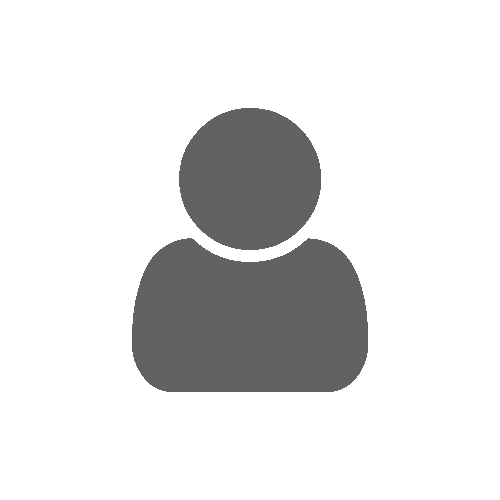
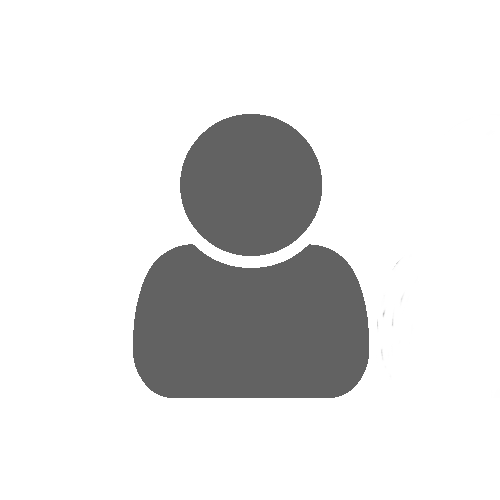
Add user container toggle

diff --git a/docs/main.js b/docs/main.js
@@ -1,3 +1,27 @@
+const userContainer = document.querySelector('.user-container');
+const userComputer = document.querySelector('.user-computer');
+const spanComputer = document.querySelector('.span-computer');
+const normalImage = document.querySelector('.normal-image');
+const hoverImage = document.querySelector('.hover-image');
+
+let twoPlayerMode = false;
+
+userContainer.addEventListener('click', () => {
+  if (twoPlayerMode === false) {
+    normalImage.src = './res/two-player.png';
+    hoverImage.src = './res/two-player-hover.png';
+    userContainer.childNodes[1].innerHTML = 'Player 1 &nbsp(<span class="span-player">X</span>)'
+    userContainer.childNodes[3].innerHTML = 'Player 2 &nbsp(<span class="span-computer">O</span>)'
+    twoPlayerMode = true;
+  } else if (twoPlayerMode === true) {
+    normalImage.src = './res/single-player.png';
+    hoverImage.src = './res/single-player-hover.png';
+    userContainer.childNodes[1].innerHTML = 'Player &nbsp(<span class="span-player">X</span>)'
+    userContainer.childNodes[3].innerHTML = 'Computer &nbsp(<span class="span-computer">O</span>)'
+    twoPlayerMode = false;
+  }
+});
+
 const allBoxes = document.querySelectorAll('.text');
 const upLeftBox = document.querySelector('.up-left');
 const upMidBox = document.querySelector('.up-mid');
@@ -9,22 +33,6 @@ const bottomLeftBox = document.querySelector('.bot-left');
 const bottomMidBox = document.querySelector('.bot-mid');
 const bottomRightBox = document.querySelector('.bot-right');
 
-// non-functioning bug
-// this function knows specific boxes
-// if player chose a certain spot, choose certain available boxes for the computer to choose from which will be randomized, can be 2 or more
-// i put a 'box' parameter here for a reason
-// manually do it?
-
-// after an hour, i'm trying to manually do it
-// i'm fixing an issue about a random.innerHTML that doesn't register at times
-
-// still not functioning at times.
-// add playerpick and computerpick
-
-// computer actually looks like it's trying to win sometimes.
-
-// issue, not animating unless you double click it, also take note of higher chances of computer picking a box
-
 function animateO() {
   anime({
     targets: '.oActive',
@@ -34,13 +42,7 @@ function animateO() {
   });
 }
 
-function markX(box) {
-  if (!box.innerHTML.includes('X')
-  && !box.innerHTML.includes('O')) {
-    box.innerHTML = 'X';
-    markO();
-  }
-}
+// if player chose a certain spot, choose certain available boxes for the computer to choose from which will be randomized, can be 2 or more
 
 function markO() {
   setTimeout(() => {
@@ -48,7 +50,7 @@ function markO() {
     const randomBox = rando(restAllBoxes).value;
     randomBox.innerHTML = 'O';
 
-    // different function but the same purpose as xActive, this instead replaces 'text' class
+    // toggle 'oComputer' class
     const clickedBox = randomBox;
     for (let i = 0; i < allBoxes.length; i++) {
       allBoxes[i].classList.replace('oActive', 'text');
@@ -59,14 +61,13 @@ function markO() {
   }, 500);
 }
 
-// function markX(box) {
-//   if (!box.innerHTML.includes('X')) {
-//     if (!box.innerHTML.includes('O')) {
-//       box.innerHTML = 'X';
-//       markO(box);
-//     }
-//   }
-// }
+function markX(box) {
+  if (!box.innerHTML.includes('X')
+  && !box.innerHTML.includes('O')) {
+    box.innerHTML = 'X';
+    markO();
+  }
+}
 
 function animateX() {
   anime({
@@ -77,7 +78,7 @@ function animateX() {
   });
 }
 
-// to add class to clicked box then remove the previous box's class to add to new box if new is clicked
+// toggle 'xActive' class, same purpose as 'oComputer' class, only functions are different
 allBoxes.forEach((btnClickEvent, _, buttons) => {
   btnClickEvent.addEventListener('click', () => {
     buttons.forEach((bt) => {
@@ -101,35 +102,51 @@ function checkWhosWinner() {
   }
 }
 
-// function firstPlayer(e, box) {
-//   if (!box.innerHTML.includes('X')) {
-//     if (!box.innerHTML.includes('O')) {
-//       e.target.innerHTML = 'X';
-//     }
-//   }
-// }
+// single mode
+function firstPlayer(e, box) {
+  if (!box.innerHTML.includes('X')) {
+    if (!box.innerHTML.includes('O')) {
+      e.target.innerHTML = 'X';
+    }
+  }
+}
 
-// function secondPlayer(e, box) {
-//   if (!box.innerHTML.includes('O')) {
-//     if (!box.innerHTML.includes('X')) {
-//       e.target.innerHTML = 'O';
-//     }
-//   }
-// }
+function secondPlayer(e, box) {
+  if (!box.innerHTML.includes('O')) {
+    if (!box.innerHTML.includes('X')) {
+      e.target.innerHTML = 'O';
+    }
+  }
+}
 
-// function clickFunction(e, box) {
-//   if (!functionIsRunning) {
-//     firstPlayer(e, box);
-//     functionIsRunning = true;
-//   } else {
-//     functionIsRunning = false;
-//     secondPlayer(e, box);
-//   }
-// }
+let functionIsRunning = false;
+
+function clickFunction(e, box) {
+  if (!functionIsRunning) {
+    firstPlayer(e, box);
+    functionIsRunning = true;
+  } else {
+    functionIsRunning = false;
+    secondPlayer(e, box);
+  }
+}
+
+// avoid continuous click from X
+let boxDisabled = false;
 
 allBoxes.forEach((box) => {
   box.addEventListener('click', () => {
-    markX(box);
+    if (boxDisabled === false) {
+      boxDisabled = true;
+      markX(box);
+      setTimeout(() => {
+        boxDisabled = false;
+        markX(box);
+      }, 600);
+    }
+  });
+
+  box.addEventListener('click', () => {
     checkWhosWinner();
   });
 });
@@ -139,6 +156,5 @@ const restartButton = document.querySelector('.restart-button');
 restartButton.addEventListener('click', () => {
   allBoxes.forEach((box) => {
     box.innerHTML = '';
-    box.classList.replace('oActive', 'text');
   });
 });

diff --git a/docs/index.html b/docs/index.html
@@ -16,8 +16,8 @@
 <body>
     <div class="container">
         <div class="user-container">
-            <p class="user-text">Player (<span>X</span>)</p>
-            <p class="user-text">Computer (<span>O</span>)</p>
+            <p class="user-text user-player">Player &nbsp;(<span class="span-player">X</span>)</p>
+            <p class="user-text user-computer">Computer &nbsp;(<span class="span-computer">O</span>)</p>
             <img src="./res/single-player.png" alt="Singe-player" class="normal-image">
             <img src="./res/single-player-hover.png" alt="Two-player" class="hover-image">
         </div>

diff --git a/docs/default.css b/docs/default.css
@@ -67,11 +67,13 @@ body {
 }
 
 .board-container,
-span {
+.span-player,
+.span-computer {
     font-family: 'Kodchasan', sans-serif;
 }
 
-span {
+.span-player,
+.span-computer {
     font-weight: 400;
 }
 
